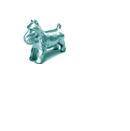
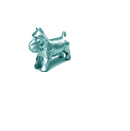
Fixed so that only the amount of players in game are drawn.

Changed region(s): [[0.1538, 0.1221, 0.5538, 0.5496]]

diff --git a/src/main.java b/src/main.java
@@ -49,13 +49,27 @@ public class main {
                 super.paint(g);
                 try {
                     Image img = ImageIO.read(getClass().getResourceAsStream("tokenImages/spaceboat.png"));
-                    g.drawImage(img, xCoord[0]-50, yCoord[0]-50, null);
                     Image img2 = ImageIO.read(getClass().getResourceAsStream("tokenImages/dog.png"));
-                    g.drawImage(img2, xCoord[1]-50, yCoord[1]-50, null);
                     Image img3 = ImageIO.read(getClass().getResourceAsStream("tokenImages/spacecar.png"));
-                    g.drawImage(img3, xCoord[2]-50, yCoord[2]-50, null);
                     Image img4 = ImageIO.read(getClass().getResourceAsStream("tokenImages/wheelbarrow.png"));
-                    g.drawImage(img4, xCoord[3]-50, yCoord[3]-50, null);
+                    switch(players.length) {
+                        case 1: g.drawImage(img, xCoord[0] - 50, yCoord[0] - 50, null);
+                        break;
+                        case 2: g.drawImage(img, xCoord[0] - 50, yCoord[0] - 50, null);
+                                g.drawImage(img2, xCoord[1] - 50, yCoord[1] - 50, null);
+                        break;
+                        case 3:
+                            g.drawImage(img, xCoord[0] - 50, yCoord[0] - 50, null);
+                            g.drawImage(img2, xCoord[1] - 50, yCoord[1] - 50, null);
+                            g.drawImage(img3, xCoord[2] - 50, yCoord[2] - 50, null);
+                        break;
+                        case 4:
+                            g.drawImage(img, xCoord[0] - 50, yCoord[0] - 50, null);
+                            g.drawImage(img2, xCoord[1] - 50, yCoord[1] - 50, null);
+                            g.drawImage(img3, xCoord[2] - 50, yCoord[2] - 50, null);
+                            g.drawImage(img4, xCoord[3] - 50, yCoord[3] - 50, null);
+                            break;
+                    }
                 } catch (IOException e) {
                     e.printStackTrace();
                 }
